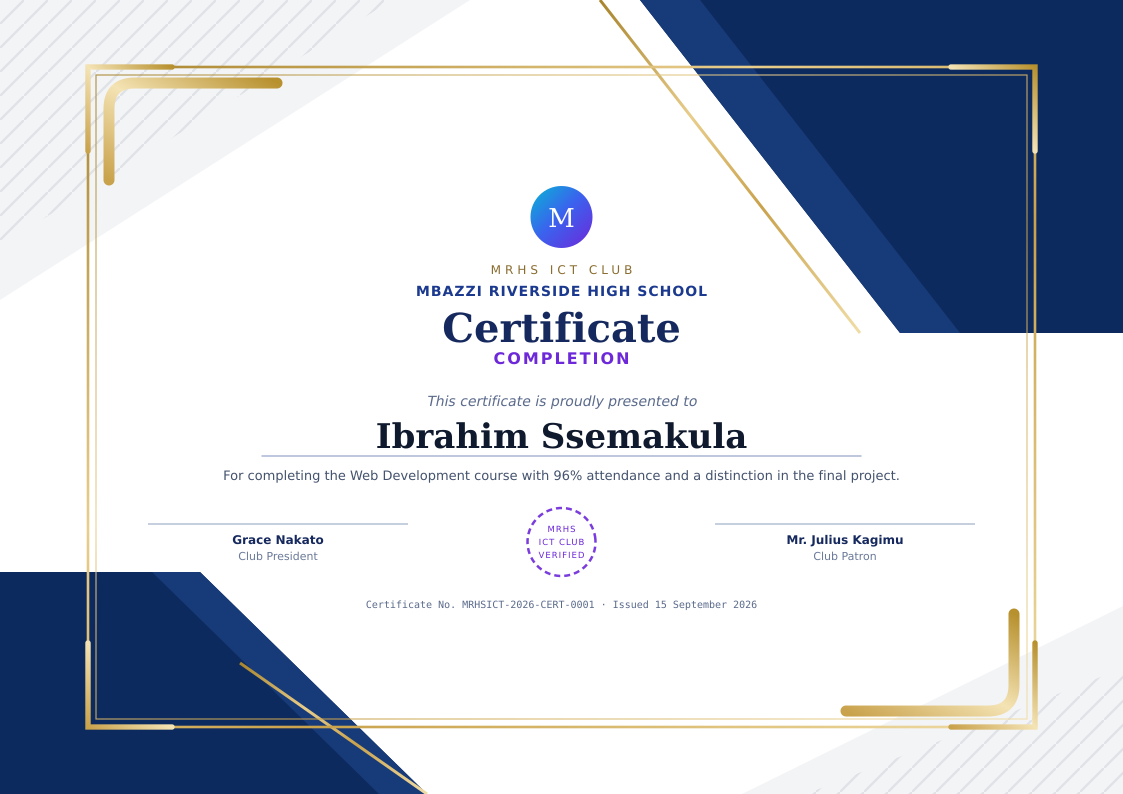
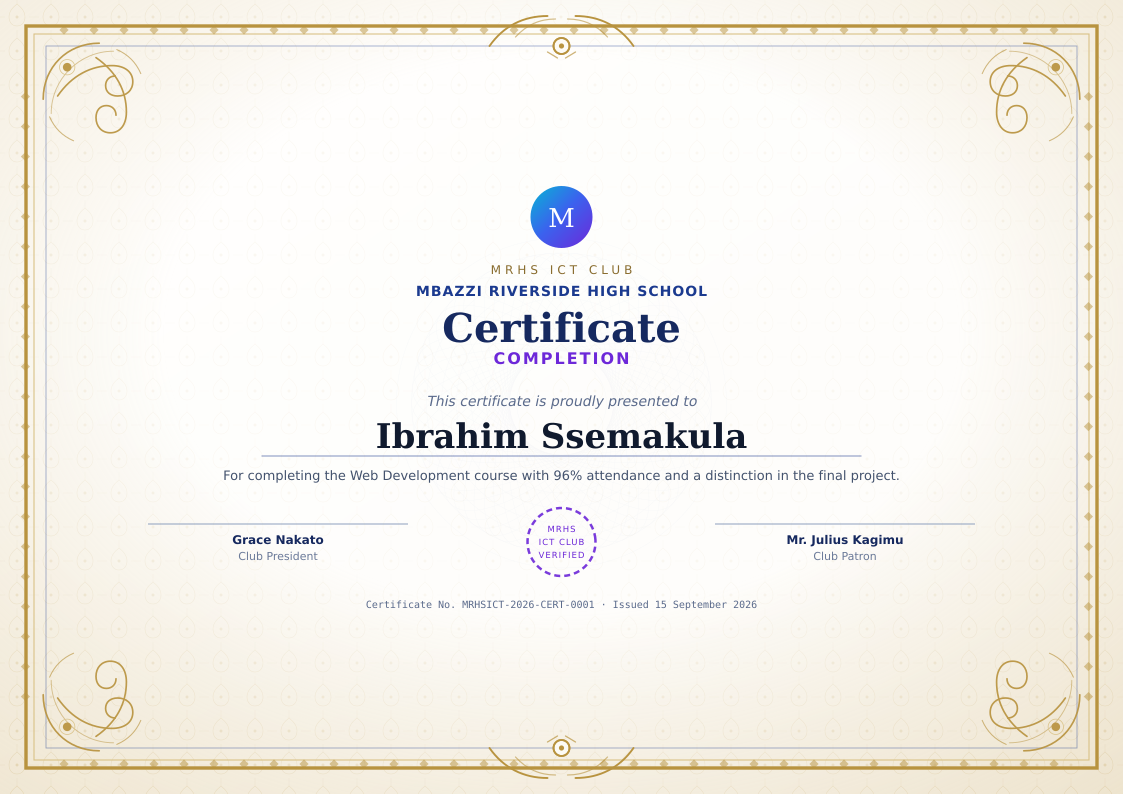
Certificates: cream & ornate is the club default design
- certbg.js: DEFAULT_DESIGN 'classic' with DESIGN_NAMES, design() falls back to it,
  and migrateDefault() moves browsers that never chose a design themselves from the
  old navy & gold default to the cream one (an explicit choice is always respected).
- useBuiltin()/setCustomFile() record certificateBgPicked; clearCustom() returns to
  the club default.
- data.js default certificateBgMode 'classic'; app.js runs the migration at boot.
- Picker tiles now list Cream & ornate first, labelled '(club default)'.
- Certificates detail caption uses the shared design names.
- Preview PNG re-rendered with the cream design, manual + README updated, PDF
  regenerated, asset version bumped to 20261003c.

diff --git a/js/core/certbg.js b/js/core/certbg.js
@@ -193,12 +193,28 @@
     if (!cachedTemplateURI) cachedTemplateURI = toDataURI(templateSVG());
     return cachedTemplateURI;
   }
-  /** Which built-in design is active: 'template' (default) or 'classic'. */
+  /** The design used unless the club picks another one. */
+  var DEFAULT_DESIGN = 'classic';
+  /** Human names used in toasts and captions. */
+  var DESIGN_NAMES = { classic: 'Cream & ornate', template: 'Navy & gold', custom: 'your uploaded image' };
+
+  /** Which design is active: 'classic' (default), 'template' or 'custom'. */
   function design() {
     var m = settings().certificateBgMode;
     if (m === 'custom') return 'custom';
+    if (m === 'template') return 'template';
     if (m === 'classic') return 'classic';
-    return 'template';
+    return DEFAULT_DESIGN;
+  }
+
+  /** One-time switch: clubs that never chose a design themselves move from the
+      old navy & gold default to the cream design the club asked for. */
+  function migrateDefault() {
+    var st = settings();
+    if (st.certificateBgPicked) return;
+    if (st.certificateBgMode === 'template' || st.certificateBgMode === 'builtin' || !st.certificateBgMode) {
+      if (st.certificateBgMode !== DEFAULT_DESIGN) Store.saveSettings({ certificateBgMode: DEFAULT_DESIGN });
+    }
   }
 
   /* ══ Club-supplied background ══════════════════════════════════════════ */
@@ -326,7 +342,7 @@
     return U.readFileAsDataURL(file).then(function (dataUrl) {
       return Store.files.put(file.name, file.type, dataUrl).then(function (id) {
         var old = settings().certificateBgFileId;
-        Store.saveSettings({ certificateBgFileId: id, certificateBgMode: 'custom' });
+        Store.saveSettings({ certificateBgFileId: id, certificateBgMode: 'custom', certificateBgPicked: true });
         if (old && old !== id) { try { Store.files.remove(old); } catch (e) {} }
         custom = { fileId: id, dataUrl: dataUrl, name: file.name };
         return true;
@@ -336,7 +352,7 @@
 
   function clearCustom() {
     var old = settings().certificateBgFileId;
-    Store.saveSettings({ certificateBgFileId: null, certificateBgMode: 'template' });
+    Store.saveSettings({ certificateBgFileId: null, certificateBgMode: DEFAULT_DESIGN, certificateBgPicked: false });
     if (old) { try { Store.files.remove(old); } catch (e) {} }
     custom = null;
   }
@@ -346,7 +362,7 @@
 
   /** Switches to a built-in design ('template' | 'classic'). */
   function useBuiltin(which) {
-    Store.saveSettings({ certificateBgMode: which === 'classic' ? 'classic' : 'template' });
+    Store.saveSettings({ certificateBgMode: which === 'classic' ? 'classic' : 'template', certificateBgPicked: true });
     refreshLayers();
   }
 
@@ -376,11 +392,12 @@
     var clearBtn = hasCustom && canEdit()
       ? '<button type="button" class="btn btn-outline btn-sm" data-cert-bg-clear>' + Icons.svg('x', { class: 'btn-ico' }) + 'Remove my image</button>'
       : '';
+    var label = function (name, key) { return name + (key === DEFAULT_DESIGN ? ' <span class="muted small">(club default)</span>' : ''); };
     return '<div class="cert-design">' +
-        tile('template', 'Navy &amp; gold', 'The club template: navy corner blocks, diagonal pinstripes, gold rule frame and gold corner hooks.',
-          '<img src="' + templateURI() + '" alt="Navy and gold certificate background">', active === 'template') +
-        tile('classic', 'Cream &amp; ornate', 'Classic certificate paper in cream with a double gold frame, corner scrollwork and a faint centre medallion.',
+        tile('classic', label('Cream &amp; ornate', 'classic'), 'The club default: cream certificate paper with a double gold frame, corner scrollwork and a faint centre medallion.',
           '<img src="' + dataURI() + '" alt="Cream ornate certificate background">', active === 'classic') +
+        tile('template', label('Navy &amp; gold', 'template'), 'Navy corner blocks, diagonal pinstripes, gold rule frame and gold corner hooks.',
+          '<img src="' + templateURI() + '" alt="Navy and gold certificate background">', active === 'template') +
         tile('custom', 'My own image',
           hasCustom ? 'Your uploaded image is the one printed on every certificate and download.'
                     : 'PNG or JPEG, up to 4 MB, A4 landscape (297 × 210 mm). Use the button below to choose the file.',
@@ -412,12 +429,12 @@
       var clear = target.closest('[data-cert-bg-clear]');
       if (clear && root.contains(clear)) {
         UI.confirm({
-          title: 'Remove my image', message: 'Remove your uploaded certificate background and go back to the built-in navy & gold design?',
+          title: 'Remove my image', message: 'Remove your uploaded certificate background and go back to the club default, ' + DESIGN_NAMES[DEFAULT_DESIGN] + '?',
           confirmLabel: 'Remove image', icon: 'award', tone: 'warning'
         }).then(function (ok) {
           if (!ok) return;
           clearCustom();
-          done('Certificate design updated', 'Certificates now use the built-in navy & gold design.');
+          done('Certificate design updated', 'Certificates now use the club default, ' + DESIGN_NAMES[DEFAULT_DESIGN] + '.');
         });
         return;
       }
@@ -431,8 +448,7 @@
         return;
       }
       useBuiltin(which);
-      done('Certificate design updated', 'Every certificate now uses the ' +
-        (which === 'custom' ? 'image you uploaded' : which === 'classic' ? 'cream & ornate design' : 'navy & gold design') + '.');
+      done('Certificate design updated', 'Every certificate now uses ' + DESIGN_NAMES[which === 'custom' ? 'custom' : which] + '.');
     });
 
     var input = root.querySelector('.cert-bg-file');
@@ -489,6 +505,7 @@
     svg: svg, dataURI: dataURI, templateSVG: templateSVG, templateURI: templateURI,
     thumbURI: thumbURI, cssRules: cssRules, design: design, useBuiltin: useBuiltin,
     canEdit: canEdit, designerHTML: designerHTML, bindDesigner: bindDesigner,
+    defaultDesign: DEFAULT_DESIGN, designNames: DESIGN_NAMES, migrateDefault: migrateDefault,
     openDesigner: openDesigner, previewAny: previewAny,
     layerHTML: layerHTML, hasBackground: hasBackground,
     useCustom: useCustom, loadCustom: loadCustom, refreshLayers: refreshLayers,

diff --git a/index.html b/index.html
@@ -9,9 +9,9 @@
 <title>MRHS ICT CLUB MASTER &middot; Mbazzi Riverside High School ICT Club</title>
 <link rel="icon" href="assets/logo/logo.svg" type="image/svg+xml">
 <link rel="apple-touch-icon" href="assets/logo/logo.svg">
-<link rel="stylesheet" href="css/style.css?v=20261003b">
-<link rel="stylesheet" href="css/components.css?v=20261003b">
-<link rel="stylesheet" href="css/responsive.css?v=20261003b">
+<link rel="stylesheet" href="css/style.css?v=20261003c">
+<link rel="stylesheet" href="css/components.css?v=20261003c">
+<link rel="stylesheet" href="css/responsive.css?v=20261003c">
 </head>
 <body data-route="boot">
 
@@ -306,44 +306,44 @@
 <div id="toast-root" class="toast-root" role="status" aria-live="polite" aria-atomic="false"></div>
 <div id="print-area" class="print-area" aria-hidden="true"></div>
 
-<script src="js/core/icons.js?v=20261003b"></script>
-<script src="js/core/utils.js?v=20261003b"></script>
-<script src="js/core/store.js?v=20261003b"></script>
-<script src="js/core/data.js?v=20261003b"></script>
-<script src="js/core/auth.js?v=20261003b"></script>
-<script src="js/core/ui.js?v=20261003b"></script>
-<script src="js/core/forms.js?v=20261003b"></script>
-<script src="js/core/charts.js?v=20261003b"></script>
-<script src="js/core/crud.js?v=20261003b"></script>
-<script src="js/core/certbg.js?v=20261003b"></script>
-<script src="js/core/print.js?v=20261003b"></script>
-<script src="js/core/cards.js?v=20261003b"></script>
-<script src="js/core/metrics.js?v=20261003b"></script>
-<script src="js/core/router.js?v=20261003b"></script>
-<script src="js/core/module.js?v=20261003b"></script>
-<script src="js/core/shell.js?v=20261003b"></script>
-<script src="js/modules/dashboard.js?v=20261003b"></script>
-<script src="js/modules/members.js?v=20261003b"></script>
-<script src="js/modules/cabinet.js?v=20261003b"></script>
-<script src="js/modules/meetings.js?v=20261003b"></script>
-<script src="js/modules/attendance.js?v=20261003b"></script>
-<script src="js/modules/courses.js?v=20261003b"></script>
-<script src="js/modules/activities.js?v=20261003b"></script>
-<script src="js/modules/projects.js?v=20261003b"></script>
-<script src="js/modules/reports.js?v=20261003b"></script>
-<script src="js/modules/certificates.js?v=20261003b"></script>
-<script src="js/modules/resources.js?v=20261003b"></script>
-<script src="js/modules/announcements.js?v=20261003b"></script>
-<script src="js/modules/tasks.js?v=20261003b"></script>
-<script src="js/modules/calendar.js?v=20261003b"></script>
-<script src="js/modules/equipment.js?v=20261003b"></script>
-<script src="js/modules/finance.js?v=20261003b"></script>
-<script src="js/modules/achievements.js?v=20261003b"></script>
-<script src="js/modules/gallery.js?v=20261003b"></script>
-<script src="js/modules/documents.js?v=20261003b"></script>
-<script src="js/modules/analytics.js?v=20261003b"></script>
-<script src="js/modules/settings.js?v=20261003b"></script>
-<script src="js/modules/manual.js?v=20261003b"></script>
-<script src="js/app.js?v=20261003b"></script>
+<script src="js/core/icons.js?v=20261003c"></script>
+<script src="js/core/utils.js?v=20261003c"></script>
+<script src="js/core/store.js?v=20261003c"></script>
+<script src="js/core/data.js?v=20261003c"></script>
+<script src="js/core/auth.js?v=20261003c"></script>
+<script src="js/core/ui.js?v=20261003c"></script>
+<script src="js/core/forms.js?v=20261003c"></script>
+<script src="js/core/charts.js?v=20261003c"></script>
+<script src="js/core/crud.js?v=20261003c"></script>
+<script src="js/core/certbg.js?v=20261003c"></script>
+<script src="js/core/print.js?v=20261003c"></script>
+<script src="js/core/cards.js?v=20261003c"></script>
+<script src="js/core/metrics.js?v=20261003c"></script>
+<script src="js/core/router.js?v=20261003c"></script>
+<script src="js/core/module.js?v=20261003c"></script>
+<script src="js/core/shell.js?v=20261003c"></script>
+<script src="js/modules/dashboard.js?v=20261003c"></script>
+<script src="js/modules/members.js?v=20261003c"></script>
+<script src="js/modules/cabinet.js?v=20261003c"></script>
+<script src="js/modules/meetings.js?v=20261003c"></script>
+<script src="js/modules/attendance.js?v=20261003c"></script>
+<script src="js/modules/courses.js?v=20261003c"></script>
+<script src="js/modules/activities.js?v=20261003c"></script>
+<script src="js/modules/projects.js?v=20261003c"></script>
+<script src="js/modules/reports.js?v=20261003c"></script>
+<script src="js/modules/certificates.js?v=20261003c"></script>
+<script src="js/modules/resources.js?v=20261003c"></script>
+<script src="js/modules/announcements.js?v=20261003c"></script>
+<script src="js/modules/tasks.js?v=20261003c"></script>
+<script src="js/modules/calendar.js?v=20261003c"></script>
+<script src="js/modules/equipment.js?v=20261003c"></script>
+<script src="js/modules/finance.js?v=20261003c"></script>
+<script src="js/modules/achievements.js?v=20261003c"></script>
+<script src="js/modules/gallery.js?v=20261003c"></script>
+<script src="js/modules/documents.js?v=20261003c"></script>
+<script src="js/modules/analytics.js?v=20261003c"></script>
+<script src="js/modules/settings.js?v=20261003c"></script>
+<script src="js/modules/manual.js?v=20261003c"></script>
+<script src="js/app.js?v=20261003c"></script>
 </body>
 </html>

diff --git a/js/modules/manual.js b/js/modules/manual.js
@@ -248,7 +248,7 @@
       ],
       notes: [
         'The certificate design is print-first: colours, borders and the background are tuned for paper, not for the screen, and they are identical in the preview.',
-        'Certificates are landscape and print at true A4 size (297 × 210 mm). Two built-in designs ship with the platform — the default <strong>Navy &amp; gold</strong> club template (navy corner blocks, diagonal pinstripes, gold rule frame and gold corner hooks) and <strong>Cream &amp; ornate</strong> (cream paper, double gold rule frame, corner scrollwork and a faint centre medallion). Pick either one, or set your own image, in <strong>Settings → Club information → Certificate background</strong>: the club crest, the recipient name, the two signature lines and the certificate number always stay on top of the background.',
+        'Certificates are landscape and print at true A4 size (297 × 210 mm). Two built-in designs ship with the platform — the default <strong>Cream &amp; ornate</strong> (cream paper, double gold rule frame, corner scrollwork and a faint centre medallion) and <strong>Navy &amp; gold</strong> (navy corner blocks, diagonal pinstripes, gold rule frame and gold corner hooks). Pick either one, or set your own image, from <strong>Certificates → Certificate background</strong> or <strong>Settings → Club information → Certificate background</strong>: the club crest, the recipient name, the two signature lines and the certificate number always stay on top of the background.',
         'When using your own background, choose a light, low-contrast design with an empty middle so the name and the achievement text stay easy to read — the app adds a soft white scrim over uploaded images to help.',
         'Changing the club name, school name or logo in Settings automatically updates every certificate and ID card.'
       ]
@@ -437,8 +437,8 @@
         'Open <strong>Settings → Club information</strong> to set the club name, school name, motto, description, contact details, academic year, current term, term dates, currency and document signatories. These values appear on certificates, ID cards, letters and printed reports.',
         'Use <strong>Appearance</strong> to pick light, dark or system theme and the accent colour.',
         'In <strong>Users &amp; roles</strong> create accounts for cabinet members: name, username, email, role, linked member profile and password. Reset a password, change a role or deactivate an account at any time.',
-        'The quickest way to change the background: open <strong>Certificates</strong> and click the <strong>Certificate background</strong> button at the top of the page (there is a second one on every certificate page and inside every certificate preview). The dialog shows the two built-in designs and an <strong>Upload my image</strong> button for your own PNG or JPEG up to 4 MB.',
-        'The same window is available in <strong>Settings → Club information → Certificate background</strong>, where you can also click the <strong>Navy &amp; gold</strong> or <strong>Cream &amp; ornate</strong> tile to switch designs, remove your image, or preview a real certificate at any time.',
+        'The quickest way to change the background: open <strong>Certificates</strong> and click the <strong>Certificate background</strong> button at the top of the page (there is a second one on every certificate page and inside every certificate preview). The dialog shows the two built-in designs — <strong>Cream &amp; ornate</strong> is the club default, <strong>Navy &amp; gold</strong> is the alternative — plus an <strong>Upload my image</strong> button for your own PNG or JPEG up to 4 MB.',
+        'The same window is available in <strong>Settings → Club information → Certificate background</strong>, where you can click either tile to switch designs, remove your image, or preview a real certificate at any time. The design you pick applies to every certificate, every print-out and every download.',
         'In <strong>Notifications</strong> choose which alerts the app raises (meetings, activities, tasks, announcements, low attendance) and set the low-attendance threshold.',
         'In <strong>Data</strong> download a full JSON backup, restore from a backup (merge or replace), import records from CSV, and reset or re-seed the demo data.'
       ],

diff --git a/js/modules/certificates.js b/js/modules/certificates.js
@@ -223,7 +223,7 @@
       var member = Store.find('members', c.recipientId);
       var course = c.courseId ? Store.find('courses', c.courseId) : null;
 
-      var designName = (global.CertBG && CertBG.design) ? ({ template: 'Navy & gold', classic: 'Cream & ornate', custom: 'My uploaded image' })[CertBG.design()] : '';
+      var designName = (global.CertBG && CertBG.design) ? (CertBG.designNames[CertBG.design()] || '') : '';
       var preview = UI.card({
         title: 'Certificate preview', icon: 'award', sub: 'Exactly as it will print',
         body: '<div class="cert-frame">' + Print.certificate(certOf(c)) + '</div>' +

diff --git a/js/core/data.js b/js/core/data.js
@@ -1046,7 +1046,7 @@
       memberIdPrefix: 'MRHS-ICT-M',
       certificatePrefix: 'MRHSICT',
     certificateBgFileId: null,
-    certificateBgMode: 'template',
+    certificateBgMode: 'classic',
       notifyMeetings: true,
       notifyActivities: true,
       notifyTasks: true,

diff --git a/js/app.js b/js/app.js
@@ -179,6 +179,7 @@
       return Auth.init();
     }).then(function () {
       bootStatus('Applying club settings…');
+      if (global.CertBG && CertBG.migrateDefault) CertBG.migrateDefault();
       var user = Auth.restore();
       initLogin();
       if (user) {

diff --git a/README.md b/README.md
@@ -87,7 +87,7 @@ The full matrix lives in `js/core/auth.js`.
 - **Toasts, confirmations and undo** — destructive actions ask first and can be undone from the toast.
 - **Empty, loading and error states** everywhere, with accessible labels, keyboard support and tooltips.
 - **Print previews** for member profiles, ID cards, certificates, meeting minutes, reports and attendance sheets, each downloadable as a standalone HTML document for PDF printing.
-- **Certificates** are print-first and locked to **A4 landscape (297 × 210 mm)**, with the club crest, recipient name, achievement, two signature lines and the serial number on top of the background. Two vector built-in designs ship with the platform: the default **Navy & gold** club template (navy corner blocks, diagonal pinstripes, gold rule frame and corner hooks) and **Cream & ornate** (cream paper, double gold rule frame, corner scrollwork, damask texture and a faint centre medallion); the design is switched from **Certificates → Certificate background** (also on every certificate page, inside every certificate preview, and in **Settings → Club information → Certificate background**), where an A4-landscape PNG/JPEG can be uploaded as well (a soft scrim keeps the text readable over photos). Whatever is chosen renders identically on screen, on paper and in the exported HTML. Preview: `docs/certificate-design-preview.png`.
+- **Certificates** are print-first and locked to **A4 landscape (297 × 210 mm)**, with the club crest, recipient name, achievement, two signature lines and the serial number on top of the background. Two vector built-in designs ship with the platform: the default **Cream & ornate** (cream paper, double gold rule frame, corner scrollwork, faint centre medallion) and **Navy & gold** (cream paper, double gold rule frame, corner scrollwork, damask texture and a faint centre medallion); the design is switched from **Certificates → Certificate background** (also on every certificate page, inside every certificate preview, and in **Settings → Club information → Certificate background**), where an A4-landscape PNG/JPEG can be uploaded as well (a soft scrim keeps the text readable over photos). Whatever is chosen renders identically on screen, on paper and in the exported HTML. Preview: `docs/certificate-design-preview.png`.
 - **Card studio** for member and cabinet cards: CR80 size (85.6 × 54 mm), front and reverse faces, photos or initials, barcode and membership code, signature lines, live preview, eight cards per A4 sheet (2 × 4) with cut guides, single-record printing from any detail page, and a self-contained HTML download for print shops.
 - **Administrator handbook** built into the app (`#/manual`, visible only to the Administrator role and linked from the account menu) with instant search, expandable Q&A, and a print/PDF version.
 - **Data tools** — full JSON backup/restore (merge or replace), CSV import, CSV export per module, and a one-click demo-data reset.
